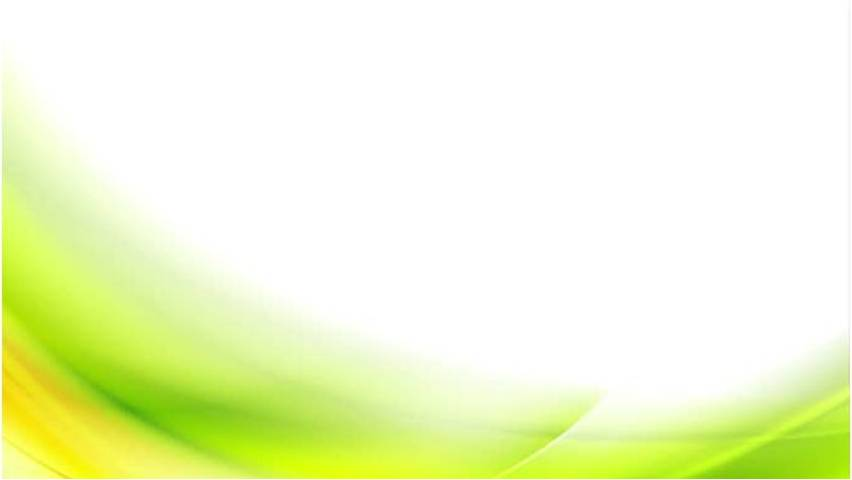
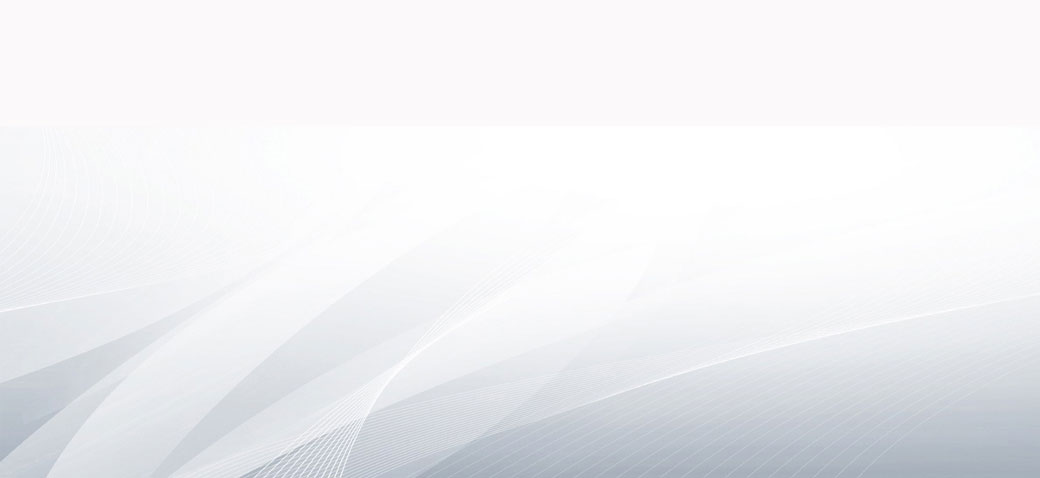
Various Changes

diff --git a/application/views/templates/header.php b/application/views/templates/header.php
@@ -29,12 +29,12 @@
       height: 100%;
     }
     body {
-      background-color: #F8F8FF;
-      /*background-image: url("<?php echo base_url(); ?>public/images/bg1.jpg");
+      /*background-color: #F8F8FF;*/
+      background-image: url("<?php echo base_url(); ?>public/images/bg1.jpg");
       background-position: center bottom;
       background-repeat: no-repeat;
       background-attachment: fixed;
-      background-size: cover;*/
+      background-size: cover;
     }
 
      
@@ -51,22 +51,22 @@
     }
 
     .opaque-navbar.opaque {
-        background-color: darkred;
+        background-color: rgba(0,0,0,0.7);
         height: 100%;
         transition: background-color .5s ease 0s;
     }
 
     ul.dropdown-menu {
-        background-color: darkred;
+        background-color: rgba(0,0,0,0.7);
     }
 
     @media (max-width: 100%) {
         body
         {
-          background:darkred;
+          background-color: rgba(0,0,0,0.7);
         }
         .opaque-navbar {
-          background-color: darkred;
+          background-color: rgba(0,0,0,0.7);
           height: 100%;
           transition: background-color .5s ease 0s;
         }
@@ -95,7 +95,7 @@
         <!-- <nav class="navbar navbar-expand-lg navbar-dark " style="background-color: darkred; border-bottom: 6px solid red;"> -->
         <nav class="navbar navbar-inverse navbar-fixed-top opaque-navbar navbar-expand-lg" style="border-bottom: 6px;">
           <a class="navbar-brand" href="" class="">
-              <img src="<?php echo base_url(); ?>public\images\taytayseal.png" style="margin: 0px; padding: 0px;" >
+              <img src="<?php echo base_url(); ?>public\images\silangseal.png" style="margin: 0px; padding: 0px;" >
           </a>
           <a class="navbar-toggler navbar-toggler-right collapsed nav-menu" data-toggle="collapse" data-target="#navmenu" aria-controls="navmenu" aria-expanded="false" aria-label="Toggle navigation" style="width: 60px; text-align: center; height: 50px">
               <img class="center-div2" src="<?php echo base_url(); ?>public\images\dropdown.png" style="text-align: center;">

diff --git a/application/views/pages/home.php b/application/views/pages/home.php
@@ -10,17 +10,17 @@
         <img class="center2" style="width: 100%" src="<?php echo base_url(); ?>public/images/homepage.png" alt="Home image">
     </div>
     <div class="panel-transparent border left" style="min-width: 300px; width: 600px; max-width: 100%; padding: 4px; margin:0.2;">
-      <span class="text2" style="margin: 0px 0px 4px;"><b>TAYTAY CARE CARD - </b> Proyektong ibinahagi sa mga mamamayan ng Taytay Rizal mula sa SANGUNIANG BAYAN at Mayor Omil Poblete.</span>
+      <span class="text2" style="margin: 0px 0px 4px;"><b>SILANGUENO CARD - </b> Proyektong ibinahagi sa mga mamamayan ng Silang Cavite mula sa SANGUNIANG BAYAN at Mayor Omil Poblete.</span>
       
       <div>
-        <span class="text3" style="margin: 0px 0px 10px; padding: 6px;">INTERESADO KABA MAKAKUHA NG TAYTAY CARE CARD? <a style="font-size:14px;" href="<?php base_url(); ?>FAQs">(PARAAN NG PAGKUHA NG CARD)</a></span>
+        <span class="text3" style="margin: 0px 0px 10px; padding: 6px;">INTERESADO KABA MAKAKUHA NG SILANGUENO CARD? <a style="font-size:14px;" href="<?php base_url(); ?>FAQs">(PARAAN NG PAGKUHA NG CARD)</a></span>
       </div>
       
         <span class="text2" style="margin: 4px 0px 10px;">KUNG IKAW AY MYEMBRO, MAARI MO NA MAKITA ANG IYONG RECORD.</span>
         
 
         <img onclick="imageClick('<?php base_url(); ?>login')" style="height: 30px; width: 200px; margin-left: auto; margin-right: auto; display: block; cursor: pointer;" src="<?php echo base_url(); ?>public/images/clickheretologin.png" alt="Member image">
- 
+
     
       <span class="text2" style="margin: 8px 0px 0px;">ANO ANG PANGUNAHING BENEPISYO NG CARD NA ITO?</span>
       <label class="text3" style="padding: 6px;">Bukod sa magkakaron ka ng isang valid Government ID, mabibigyan din ang mga residente na karagdagang benepisyo sa gamot, hospitalisasyon, insurance, at iba pa. Upang makita ang buong benepisyo, buksan ang link na ito <a href="<?php base_url(); ?>Benefits">Membership and Benefits</a></label>

diff --git a/application/config/database.php b/application/config/database.php
@@ -7,9 +7,9 @@ $query_builder = TRUE;
 $db['default'] = array(
 	'dsn'	=> '',
 	//GODADDY WEBSERVER
-	'hostname' => '132.148.148.238\MSSQLSERVER2014',
-	'username' => 'JMSAdmin',
-	'password' => 'John17:3@',
+	// 'hostname' => '132.148.148.238\MSSQLSERVER2014',
+	// 'username' => 'JMSAdmin',
+	// 'password' => 'John17:3@',
 
 	//AZURE WEBSERVER
 	// 'hostname' => 'tcp:jms.database.windows.net,1433',
@@ -22,9 +22,9 @@ $db['default'] = array(
 	//'password' => 'john17:3',
 
 	//HOUSE
-	// 'hostname' => 'JMS-PC\SQLEXPRESS',
-	// 'username' => 'sa',
-	// 'password' => 'john17:3',
+	'hostname' => 'JMS-PC\SQLEXPRESS',
+	'username' => 'sa',
+	'password' => 'john17:3',
 
 	//MARK
 	// 'hostname' => 'DESKTOP-1ROJ555',

diff --git a/application/views/pages/Benefits.php b/application/views/pages/Benefits.php
@@ -251,7 +251,7 @@ tr {
 		  </div>
     </div>
     
-    <div class="panel-transparent border left" style="border: 0px solid; border-color: gray; min-width: 300px; width: 600px; max-width:100%; padding:5px; margin:0.2">
+    <div class="panel-transparent border left" style="border: 0px solid; border-color: gray; min-width: 300px; width: 550px; max-width:100%; padding:5px; margin:0.2">
     	<div id="demo" class="carousel slide" data-ride="carousel">
 		  <!-- Indicators -->
 		  <ul class="carousel-indicators">

diff --git a/application/views/pages/FAQs.php b/application/views/pages/FAQs.php
@@ -66,7 +66,7 @@ tr {
 		    </div>
 		  </div>
 	</div>
-	<div class="panel-transparent border left" style="border: 0px solid; border-color: gray; min-width: 300px; width: 600px; max-width:100%; padding:5px; margin:0.2">
+	<div class="panel-transparent border left" style="border: 0px solid; border-color: gray; min-width: 300px; width: 550px; max-width:100%; padding:5px; margin:0.2">
 		<div id="demo" class="carousel slide" data-ride="carousel">
 		  <!-- Indicators -->
 		  <ul class="carousel-indicators">

diff --git a/application/config/config.php b/application/config/config.php
@@ -23,6 +23,7 @@ defined('BASEPATH') OR exit('No direct script access allowed');
 | a PHP script and you can easily do that on your own.
 |
 */
+// $config['base_url'] = 'http://TaytayCare.com';
 // $config['base_url'] = 'http://localhost:8080/CareCard';
 //$config['base_url'] = 'http://localhost:8666/CareCard';
 // $config['base_url'] = 'http://localhost:8567/AzureCard';
